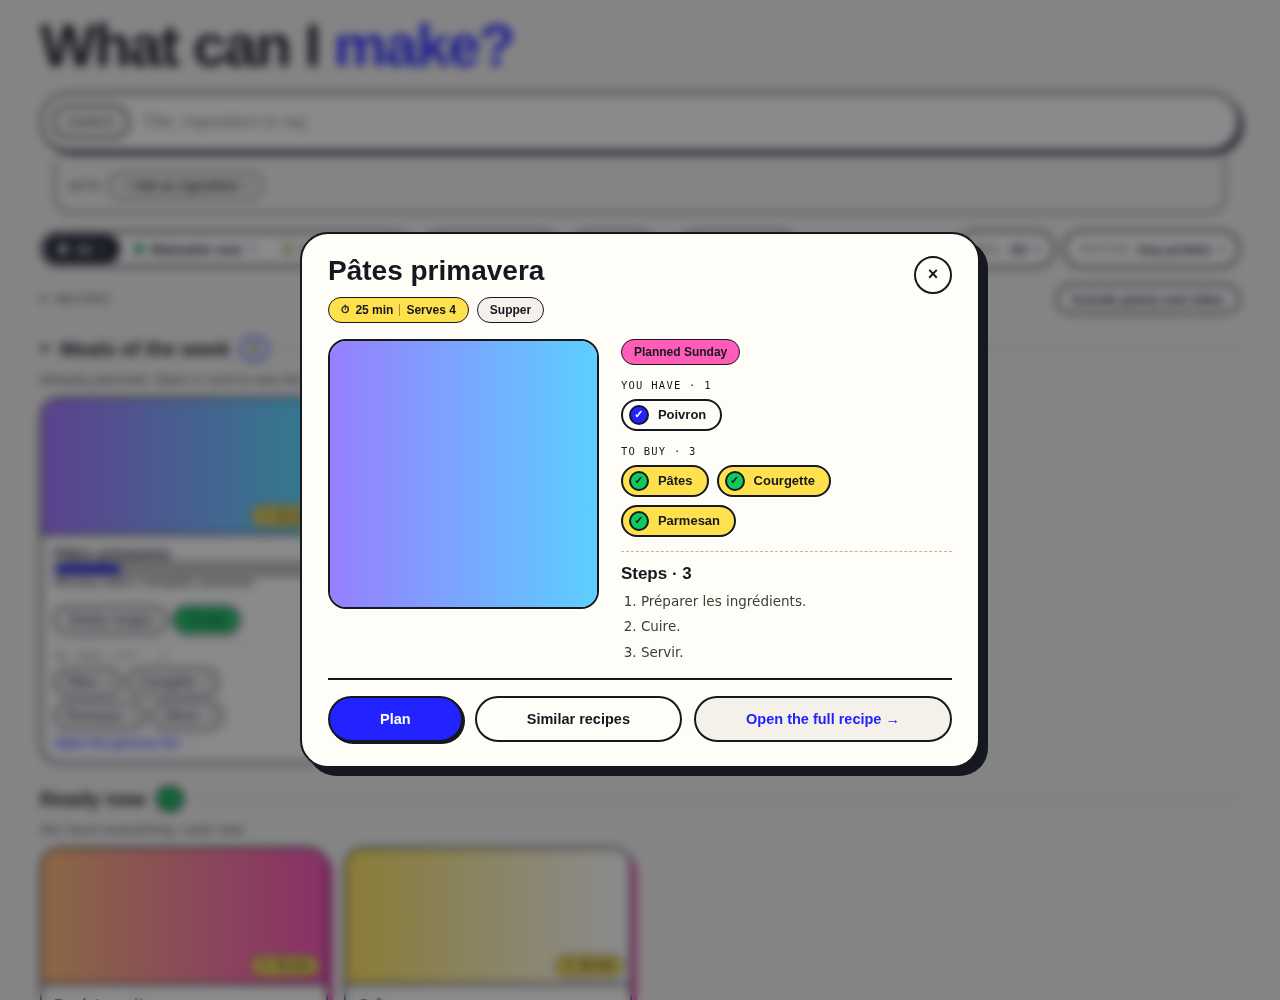
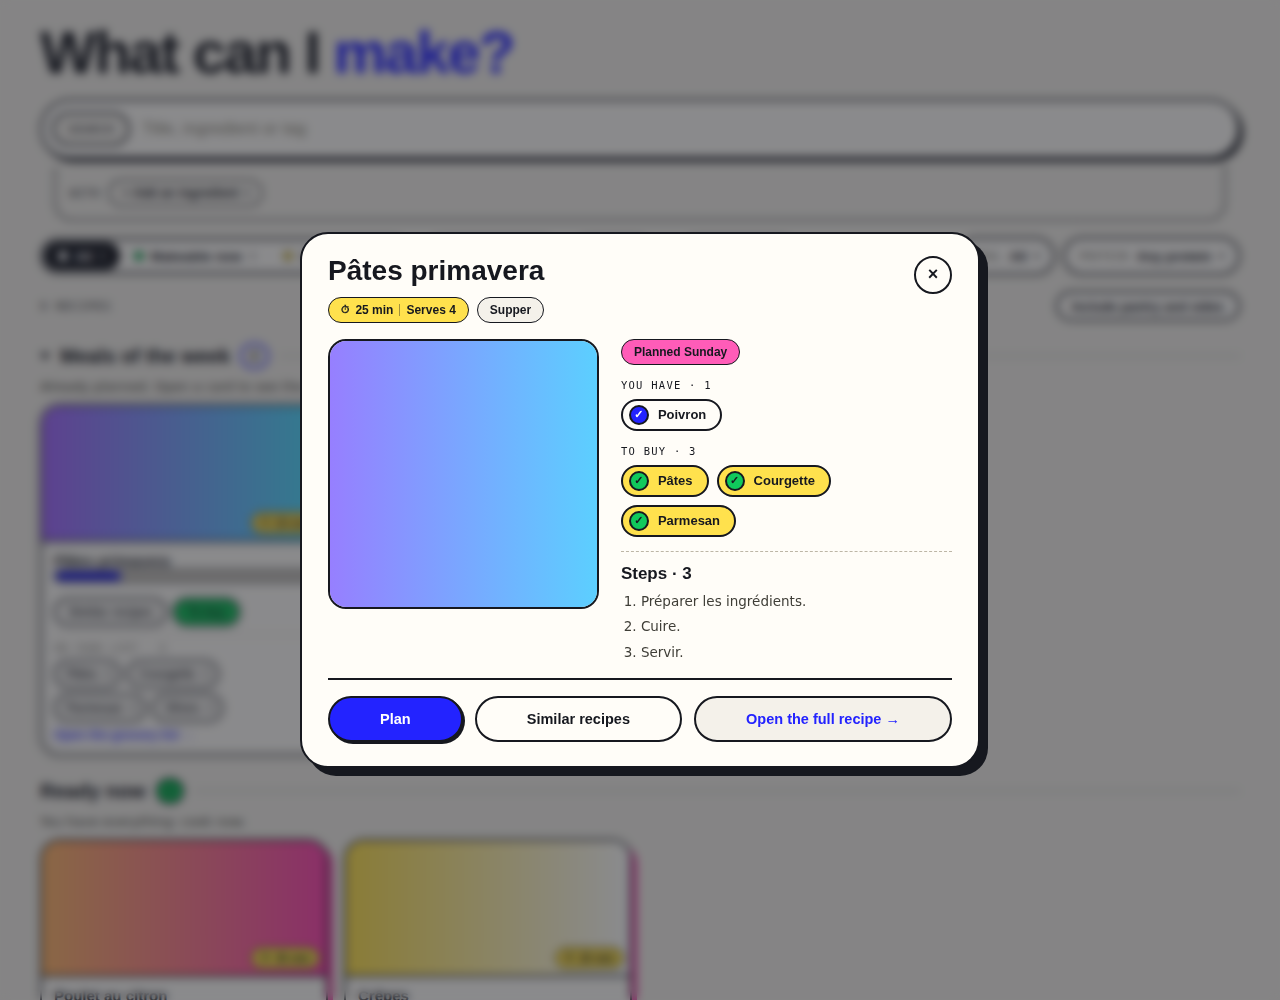
Makeable: take the Missing line off the tiles
What is missing is in the À acheter popover and the pop-out, so the tile only
keeps the have-bar and "Nothing to buy". Help, docs, tests and screenshots
updated.

Claude-Session: https://claude.ai/code/session_01P6gKk3TQsEzWZVFPMy5Arm

diff --git a/client/src/components/Finder.jsx b/client/src/components/Finder.jsx
@@ -42,10 +42,11 @@ const lowerFirst = (name) => name.charAt(0).toLowerCase() + name.slice(1);
 // One result: photo with the time and a round + (adds it to the plan), name,
 // the have bar and what is left to buy. Dragging it (when `draggable`) onto the
 // Planner's board puts it in a slot. Clicking it opens the pop-out. On the
-// Makeable page (`missingText`, `go`, `footer`) it names what is missing, a tile
+// Makeable page (`page`, `go`, `footer`) a tile with something to buy says nothing
+// about it under the bar (the À acheter popover and the pop-out list it), a tile
 // with nothing to buy and not planned this week (`go`) has a pink shadow, and
 // `footer` holds its buttons.
-function ResultCard({ tile, reason, draggable, isOpen, onOpen, onAdd, missingText, go = false, footer }) {
+function ResultCard({ tile, reason, draggable, isOpen, onOpen, onAdd, page = false, go = false, footer }) {
   const { recipe, stats } = tile;
   const { listeners, setNodeRef, isDragging } = useDraggable({
     id: `tray-${recipe.id}`,
@@ -60,7 +61,7 @@ function ResultCard({ tile, reason, draggable, isOpen, onOpen, onAdd, missingTex
   return (
     <div
       ref={setNodeRef}
-      className={`riso-recipe-card fnd-card${nothingToBuy && !missingText ? " ready" : ""}${go ? " go" : ""}${isDragging ? " dragging" : ""}${draggable ? " draggable" : ""}${isOpen ? " is-open" : ""}`}
+      className={`riso-recipe-card fnd-card${nothingToBuy && !page ? " ready" : ""}${go ? " go" : ""}${isDragging ? " dragging" : ""}${draggable ? " draggable" : ""}${isOpen ? " is-open" : ""}`}
       {...dragProps}
     >
       <button
@@ -80,13 +81,15 @@ function ResultCard({ tile, reason, draggable, isOpen, onOpen, onAdd, missingTex
               <span className="riso-recipe-card-havebar-fill" style={{ width: `${pct}%` }} />
             </span>
           )}
-          <span className={`riso-recipe-card-havelabel${nothingToBuy ? " ready" : ""}`}>
-            {nothingToBuy
-              ? t("tray.nothingToBuy")
-              : stats.totalCount > 0
-                ? missingText || t("pills.toBuy", { count: stats.missingCount })
-                : t("tray.noIngredients")}
-          </span>
+          {(nothingToBuy || !page) && (
+            <span className={`riso-recipe-card-havelabel${nothingToBuy ? " ready" : ""}`}>
+              {nothingToBuy
+                ? t("tray.nothingToBuy")
+                : stats.totalCount > 0
+                  ? t("pills.toBuy", { count: stats.missingCount })
+                  : t("tray.noIngredients")}
+            </span>
+          )}
           {reason && <span className="fnd-card-reason">{reason}</span>}
         </span>
       </button>
@@ -327,7 +330,7 @@ export function Finder({
           isOpen={openId === tile.recipe.id || popOpen}
           onOpen={openRecipe}
           go={sectionId === "ready"}
-          missingText={t("finder.missing", { names: buy.map(lowerFirst).join(", ") })}
+          page
           footer={
             <div className="fnd-card-foot">
               <TileActions

diff --git a/client/src/i18n/fr.js b/client/src/i18n/fr.js
@@ -711,7 +711,6 @@ export const fr = {
     availShort: { all: "Tout", ready: "Faisable", few: "1 ou 2" },
     similarShort: "Similaires",
     toBuyButton: "À acheter",
-    missing: "Il manque : {names}",
     listed: { one: "{count} article ajouté à la liste d'épicerie.", other: "{count} articles ajoutés à la liste d'épicerie." },
     onYourList: "SUR VOTRE LISTE · {count}",
     openGrocery: "Ouvrir la liste d'épicerie →",
@@ -1412,7 +1411,7 @@ export const fr = {
           "Les recettes sont en sections : « Repas de la semaine » (déjà planifiés; fermée jusqu'à ce que vous l'ouvriez), « Prêtes maintenant », « À un ou deux articles » et « Il faut faire l'épicerie » (trois manquants ou plus). Une recette planifiée cette semaine n'apparaît que dans « Repas de la semaine ». Un repas sans rien à acheter qui n'est pas encore planifié a une ombre rose.",
           "Seuls les repas sont comptés. [[includeSides]] ajoute les recettes de garde-manger et de prépa, les accompagnements, les collations et les desserts, laissés de côté par défaut; Recettes, Accueil et le « Faisable maintenant » du planificateur utilisent le même réglage.",
           "Cherchez par nom, étiquette ou ingrédient. [[finderAddIngredient]] ouvre les tablettes de votre inventaire : touchez ce avec quoi vous voulez cuisiner, et les recettes qui en utilisent le plus passent en premier. Filtrez avec [[finderReady]] et [[finderFew]] (touchez de nouveau pour tout revoir), [[finderExpiring]], [[finderQuick]] et les menus Repas et Protéine.",
-          "Chaque carte indique ce qui manque. [[tileToBuy]] liste ces articles pour les ajouter à la liste d'épicerie un à un ou tous d'un coup; c'est la même liste que dans Épicerie. Ce que vous ajoutez apparaît aussi sous la carte, dans « Sur votre liste », et son × retire l'article. [[showSales]] ajoute les vrais rabais des circulaires de la semaine aux articles.",
+          "La barre de chaque carte montre ce que vous avez déjà de la recette. [[tileToBuy]] liste ce qui manque pour les ajouter à la liste d'épicerie un à un ou tous d'un coup; c'est la même liste que dans Épicerie. Ce que vous ajoutez apparaît aussi sous la carte, dans « Sur votre liste », et son × retire l'article. [[showSales]] ajoute les vrais rabais des circulaires de la semaine aux articles.",
           "Touchez une carte pour ouvrir la recette. [[popPlan]] ouvre une petite semaine où vous choisissez le jour et le repas. [[tileSimilar]] classe la page selon ce qu'une recette partage avec elle, sous une bannière jaune : touchez un ingrédient pour l'écarter de la recherche, ou le × pour la fermer. [[popOpenFull]] ouvre la recette complète.",
         ],
       },

diff --git a/client/src/i18n/en.js b/client/src/i18n/en.js
@@ -711,7 +711,6 @@ export const en = {
     availShort: { all: "All", ready: "Makeable", few: "1 or 2" },
     similarShort: "Similar",
     toBuyButton: "To buy",
-    missing: "Missing: {names}",
     listed: { one: "{count} item added to the grocery list.", other: "{count} items added to the grocery list." },
     onYourList: "ON YOUR LIST · {count}",
     openGrocery: "Open the grocery list →",
@@ -1406,7 +1405,7 @@ export const en = {
           "Recipes sit in sections: Meals of the week (already planned; closed until you open it), Ready now, One or two short and Needs a shop (three or more missing). A recipe planned this week shows only in Meals of the week. A meal with nothing to buy that isn't planned yet has a pink shadow.",
           "Only meals are counted. [[includeSides]] adds the pantry and prep recipes, sides, snacks and desserts that are left out by default; Recipes, Home and the Planner's Makeable now use the same setting.",
           "Search by name, tag or ingredient. [[finderAddIngredient]] opens your own Inventory shelves: tap what you want to cook with, and the recipes that use the most of it come first. Filter with [[finderReady]] and [[finderFew]] (tap again for All), [[finderExpiring]], [[finderQuick]] and the Meal and Protein menus.",
-          "Each tile says what's missing. [[tileToBuy]] lists those items so you can add them to the grocery list one at a time or all at once; it is the same list Grocery shows. What you add also shows under the tile as On your list, and its × takes the item off again. [[showSales]] adds this week's real flyer sales to the items.",
+          "The bar on each tile shows how much of the recipe you already have. [[tileToBuy]] lists what's missing so you can add them to the grocery list one at a time or all at once; it is the same list Grocery shows. What you add also shows under the tile as On your list, and its × takes the item off again. [[showSales]] adds this week's real flyer sales to the items.",
           "Tap a tile to open the recipe. [[popPlan]] opens a small week where you pick the day and the meal. [[tileSimilar]] sorts the page by what a recipe shares with it, under a yellow banner: tap an ingredient to leave it out of the search, or the × to close it. [[popOpenFull]] opens the whole recipe.",
         ],
       },

diff --git a/e2e/makeable-v2.spec.js b/e2e/makeable-v2.spec.js
@@ -97,7 +97,7 @@ test("À acheter adds and removes items on the real grocery list, with Undo, and
   await openMakeable(page);
 
   const dish = tile(page, "Riso Grocery Dish");
-  await expect(dish.getByText("Missing: broccoli, leeks")).toBeVisible();
+  await expect(dish.getByText(/Missing/)).toHaveCount(0); // what is missing is in À acheter and the pop-out, not on the tile
   await dish.getByRole("button", { name: "To buy", exact: true }).click();
   await expect(page.locator(".fnd-buypop")).toBeVisible();
 

diff --git a/client/src/i18n/format.test.js b/client/src/i18n/format.test.js
@@ -109,7 +109,7 @@ describe("text", () => {
   });
 
   it("drops React elements into a sentence", () => {
-    const parts = tx("finder.missing", { names: { $$typeof: Symbol.for("react.element"), type: "b", props: {}, key: null } }, "fr");
-    expect(parts[0]).toBe("Il manque\u00a0: ");
+    const parts = tx("finder.sharesNames", { names: { $$typeof: Symbol.for("react.element"), type: "b", props: {}, key: null } }, "fr");
+    expect(parts[0]).toBe("partage ");
   });
 });

diff --git a/docs/components.md b/docs/components.md
@@ -165,7 +165,7 @@ Used by: the recipe form (the new-recipe pop-up and the full-page editor) when c
 **Makeable page** (`layout="page"`; `components/Makeable.jsx` adds the title; design `docs/design/riso-v2-makeable/`). Same search, "With" strip, picker, filters (Repas and Protéine are the shared menus) and Main meal banner, with these differences:
 
 - **Sections** instead of one grid: Meals of the week (planned this week; closed to begin with), Ready now, One or two short, Needs a shop (`makeableSections`, with a count badge and a line of words each). A planned recipe is only in the first. The Makeable now rule (meals only) applies to every result and count, with its switch « Inclure garde-manger et accompagnements » at the end of the count line; the availability counts keep the other filters.
-- **Tiles** (`ResultCard` with a `footer`): photo and time, name, the have-bar, "Rien à acheter" or "Il manque : …", then **Similar recipes** and **À acheter** (`TileActions`). Ready and not planned = **pink shadow** (`.fnd-card.go`). À acheter is green when everything missing is on the list, lighter green when "Show sales" is on and some of it is on sale.
+- **Tiles** (`ResultCard` with a `footer`): photo and time, name, the have-bar and "Rien à acheter" when there is nothing to buy (what is missing is only in the À acheter popover and the pop-out), then **Similar recipes** and **À acheter** (`TileActions`). Ready and not planned = **pink shadow** (`.fnd-card.go`). À acheter is green when everything missing is on the list, lighter green when "Show sales" is on and some of it is on sale.
 - **À acheter popover** (`GroceryPopover`, under the tile, a cream scrim behind): + Ajouter / ✓ Ajouté per missing item, the real sale pill (`saleFor`, Show sales on only), Add all · N. **On your list** (`ListStrip`, inside a tile that has an item on the list) shows the items on the real grocery list that some recipe here is missing, at most six, with × (the shared take-off toast) and a link to Grocery. Everything goes through the shared `grocery` prop, so Grocery always agrees.
 - **Similar recipes** from a tile or the pop-out sets the Main meal on this page; the yellow banner has a ✕ in its corner and no Cancel.
 - Props the page adds: `plannedDays` (recipe id → day, this week), `grocery`, `deals`, `showSales`, `onToggleSales`, `onSimilar`, `onOpenGrocery`.
